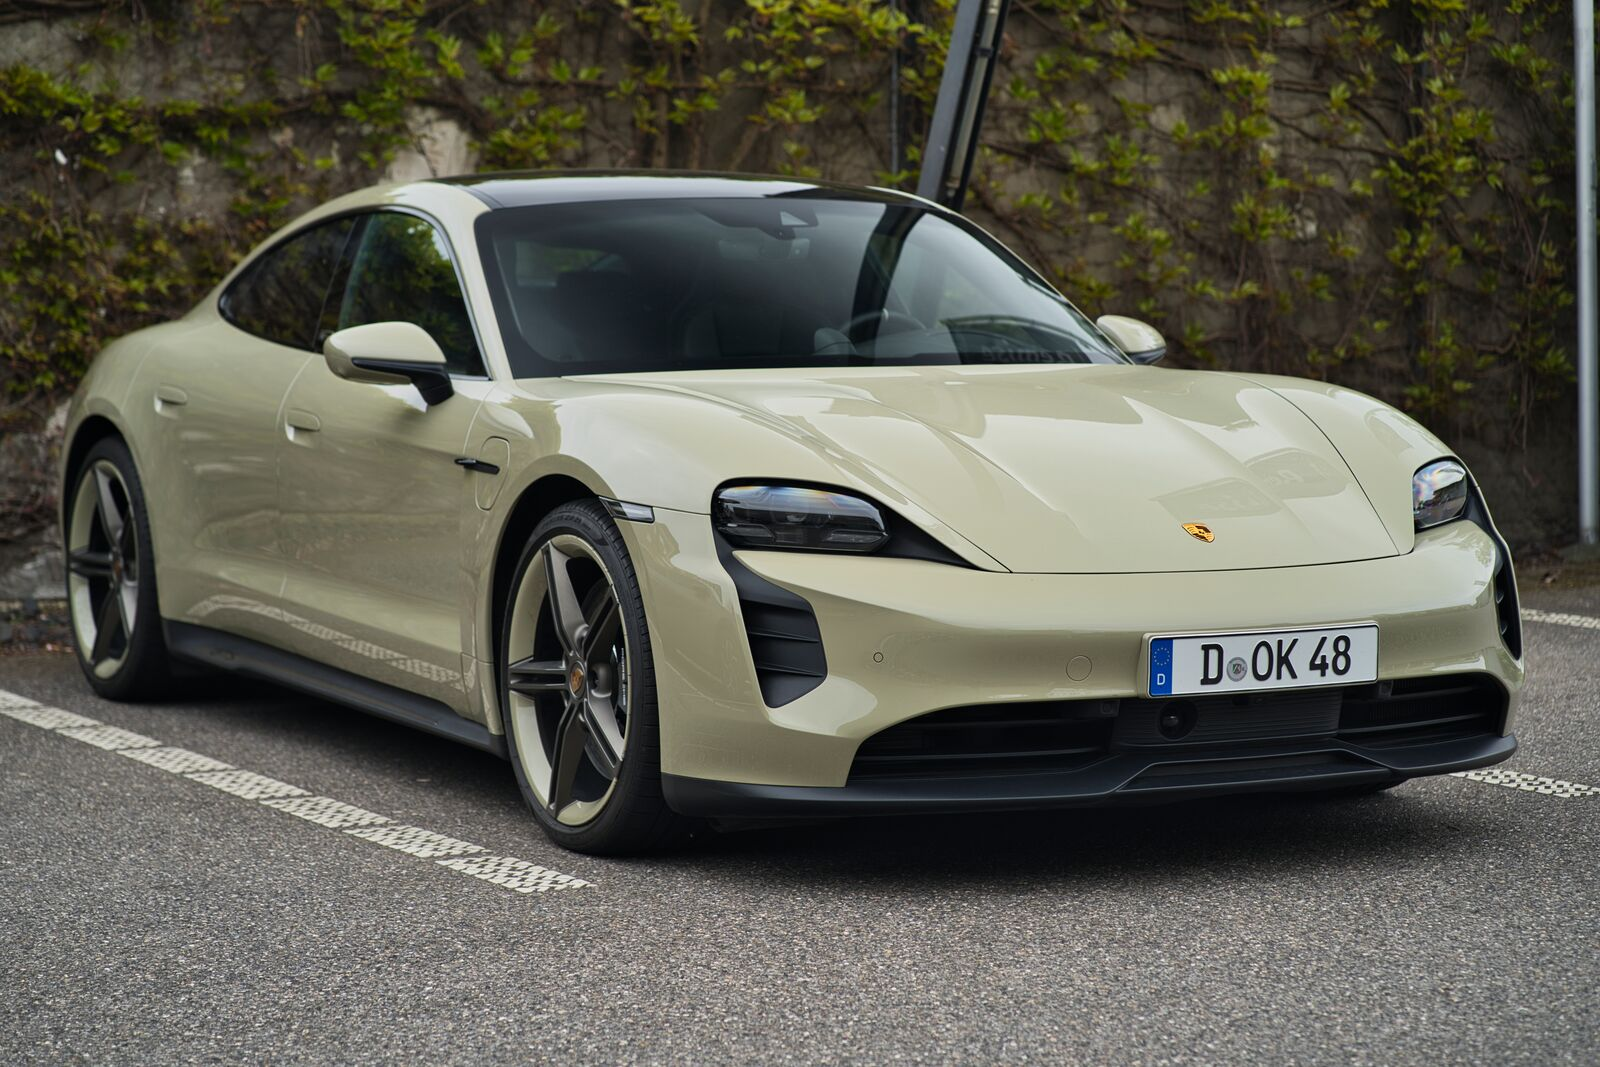
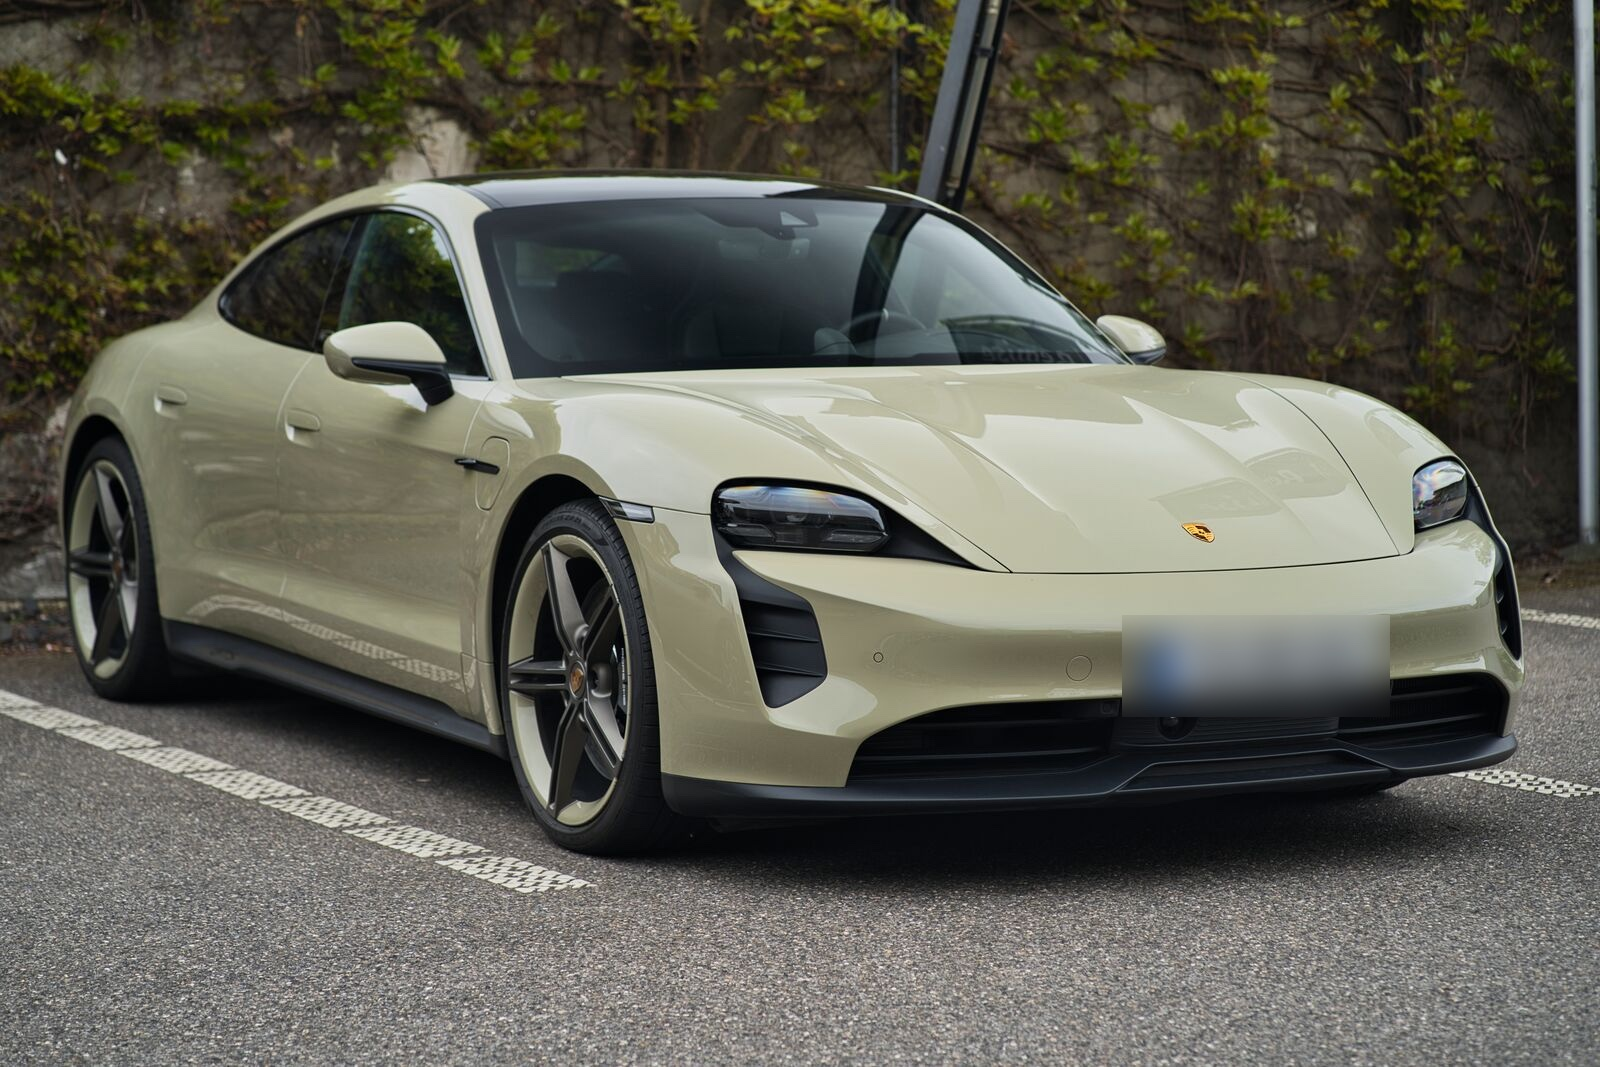
Add files via upload

Changed region(s): [[0.6875, 0.5567, 0.875, 0.6804]]

diff --git a/css/style.css b/css/style.css
@@ -77,14 +77,39 @@ a {
   text-transform: uppercase;
 }
 
+/* ---------- Hintergrund-Wortmark (Startseite) ---------- */
+
+.bg-wordmark {
+  position: fixed;
+  top: 50%;
+  left: 50%;
+  transform: translate(-50%, -50%);
+  width: min(94vw, 130rem);
+  z-index: 0;
+  pointer-events: none;
+  opacity: 0.4;
+  transition: opacity 0.2s linear;
+}
+
+.bg-wordmark img {
+  width: 100%;
+  height: auto;
+}
+
+main,
+.site-footer {
+  position: relative;
+  z-index: 1;
+}
+
 /* ---------- Header ---------- */
 
 .site-header {
   position: sticky;
   top: 0;
   z-index: 50;
-  background-color: var(--white);
-  border-bottom: 1px solid var(--black);
+  background-color: var(--black);
+  color: var(--white);
 }
 
 .site-header__inner {
@@ -129,7 +154,7 @@ a {
 
 .site-nav a:hover,
 .site-nav a[aria-current="page"] {
-  border-bottom-color: var(--black);
+  border-bottom-color: var(--white);
 }
 
 .nav-toggle {
@@ -145,7 +170,7 @@ a {
   display: block;
   width: 1.4rem;
   height: 2px;
-  background: var(--black);
+  background: var(--white);
   margin: 4px 0;
   transition: transform 0.3s var(--easing), opacity 0.3s var(--easing);
 }
@@ -161,8 +186,9 @@ a {
     flex-direction: column;
     align-items: flex-start;
     gap: 0;
-    background: var(--white);
-    border-bottom: 1px solid var(--black);
+    background: var(--black);
+    color: var(--white);
+    border-bottom: 1px solid rgba(254, 254, 254, 0.35);
     padding: 0.5rem var(--pad) 1.2rem;
     transform: translateY(-110%);
     transition: transform 0.35s var(--easing);

diff --git a/js/main.js b/js/main.js
@@ -46,6 +46,32 @@
     });
   }
 
+  /* Hintergrund-Wortmark (Startseite): fährt fix mit und blendet am Ende des weißen Bereichs aus.
+     Ein unsichtbarer Sentinel am Anfang des farbigen Abschnitts steuert den Fade über
+     IntersectionObserver: je weiter er ins Bild rückt, desto transparenter das Wortmark. */
+  var bgMark = document.querySelector(".bg-wordmark");
+  var fadeTarget = document.querySelector(".statement") || document.querySelector(".site-footer");
+  if (bgMark && fadeTarget && "IntersectionObserver" in window) {
+    var baseOpacity = 0.4;
+    var sentinel = document.createElement("div");
+    sentinel.style.cssText =
+      "position:absolute;top:0;left:0;width:1px;height:60vh;pointer-events:none;visibility:hidden;";
+    if (!fadeTarget.style.position) fadeTarget.style.position = "relative";
+    fadeTarget.appendChild(sentinel);
+
+    var steps = [];
+    for (var s = 0; s <= 20; s++) steps.push(s / 20);
+
+    var markIo = new IntersectionObserver(
+      function (entries) {
+        var ratio = entries[0].isIntersecting ? entries[0].intersectionRatio : (entries[0].boundingClientRect.top < 0 ? 1 : 0);
+        bgMark.style.opacity = (baseOpacity * (1 - ratio)).toFixed(3);
+      },
+      { threshold: steps }
+    );
+    markIo.observe(sentinel);
+  }
+
   /* Lightbox */
   var frames = Array.prototype.slice.call(document.querySelectorAll("button.frame"));
   if (!frames.length) return;

diff --git a/index.html b/index.html
@@ -15,7 +15,7 @@
   <header class="site-header">
     <div class="site-header__inner">
       <a class="site-header__logo" href="index.html" aria-label="Fischer Optix — zur Startseite">
-        <img src="assets/logo/fischer-optix-black.svg" alt="Fischer Optix — Photography &amp; Videography">
+        <img src="assets/logo/fischer-optix-white.svg" alt="Fischer Optix — Photography &amp; Videography">
       </a>
       <button class="nav-toggle" type="button" aria-expanded="false" aria-controls="site-nav" aria-label="Menü öffnen">
         <span></span><span></span><span></span>
@@ -28,6 +28,10 @@
       </nav>
     </div>
   </header>
+
+  <div class="bg-wordmark" aria-hidden="true">
+    <img src="assets/logo/fischer-optix-wordmark-grey.svg" alt="">
+  </div>
 
   <main>
 
@@ -151,6 +155,6 @@
     </div>
   </footer>
 
-  <script src="js/main.js"></script>
+  <script src="js/main.js?v=3"></script>
 </body>
 </html>

diff --git a/about.html b/about.html
@@ -15,7 +15,7 @@
   <header class="site-header">
     <div class="site-header__inner">
       <a class="site-header__logo" href="index.html" aria-label="Fischer Optix — zur Startseite">
-        <img src="assets/logo/fischer-optix-black.svg" alt="Fischer Optix — Photography &amp; Videography">
+        <img src="assets/logo/fischer-optix-white.svg" alt="Fischer Optix — Photography &amp; Videography">
       </a>
       <button class="nav-toggle" type="button" aria-expanded="false" aria-controls="site-nav" aria-label="Menü öffnen">
         <span></span><span></span><span></span>
@@ -122,6 +122,6 @@
     </div>
   </footer>
 
-  <script src="js/main.js"></script>
+  <script src="js/main.js?v=3"></script>
 </body>
 </html>

diff --git a/collabs.html b/collabs.html
@@ -15,7 +15,7 @@
   <header class="site-header">
     <div class="site-header__inner">
       <a class="site-header__logo" href="index.html" aria-label="Fischer Optix — zur Startseite">
-        <img src="assets/logo/fischer-optix-black.svg" alt="Fischer Optix — Photography &amp; Videography">
+        <img src="assets/logo/fischer-optix-white.svg" alt="Fischer Optix — Photography &amp; Videography">
       </a>
       <button class="nav-toggle" type="button" aria-expanded="false" aria-controls="site-nav" aria-label="Menü öffnen">
         <span></span><span></span><span></span>
@@ -274,6 +274,6 @@
     </div>
   </footer>
 
-  <script src="js/main.js"></script>
+  <script src="js/main.js?v=3"></script>
 </body>
 </html>

diff --git a/gallery.html b/gallery.html
@@ -15,7 +15,7 @@
   <header class="site-header">
     <div class="site-header__inner">
       <a class="site-header__logo" href="index.html" aria-label="Fischer Optix — zur Startseite">
-        <img src="assets/logo/fischer-optix-black.svg" alt="Fischer Optix — Photography &amp; Videography">
+        <img src="assets/logo/fischer-optix-white.svg" alt="Fischer Optix — Photography &amp; Videography">
       </a>
       <button class="nav-toggle" type="button" aria-expanded="false" aria-controls="site-nav" aria-label="Menü öffnen">
         <span></span><span></span><span></span>
@@ -258,6 +258,6 @@
     </div>
   </footer>
 
-  <script src="js/main.js"></script>
+  <script src="js/main.js?v=3"></script>
 </body>
 </html>